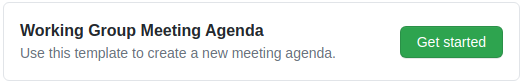
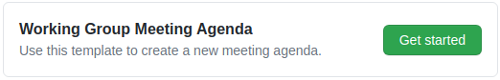
reduce images to 500px width

diff --git a/sop.md b/sop.md
@@ -62,6 +62,7 @@ Below are the steps for setting up, hosting, and following up on a call.
 1. Create a new agenda by opening an issue based on template 
     - ideally this is done right after the last call, to give people enough time to add agenda items for the next meeting
     - example of the issue template on GitHub:
+    
     ![Agenda Issue Template Example](sop-meeting-agenda-example.png)
 1. Update the Date/Time to the future meeting date
 1. Create an Event Time Announcer link to help with time zone conversions
@@ -72,6 +73,7 @@ Below are the steps for setting up, hosting, and following up on a call.
     - Add a link to the result following the Date/Time in the issue 
     - e.g. in Markdown format: `[time zone conversion](https://www.timeanddate.com/worldclock/fixedtime.html?msg=Stacks+Governance+Working+Group+Call+%2326&iso=20201022T16&ah=1)`
     - example of the announcement after someone clicks on it:
+  
     ![Event Time Announcer Example](sop-timeanddate-example.png)
 1. Update the roles, or list TBA if unknown
 1. Close the issue from the previous call (instructions below)
@@ -111,6 +113,8 @@ TODO: add more details
 ### Publishing Call Updates
 
 TODO: add content, to be done on the Stacks Forum
+
+IDEA: should this be done for every call, or once/month as a summary?
 
 ## Governance Working Group Resources
 
